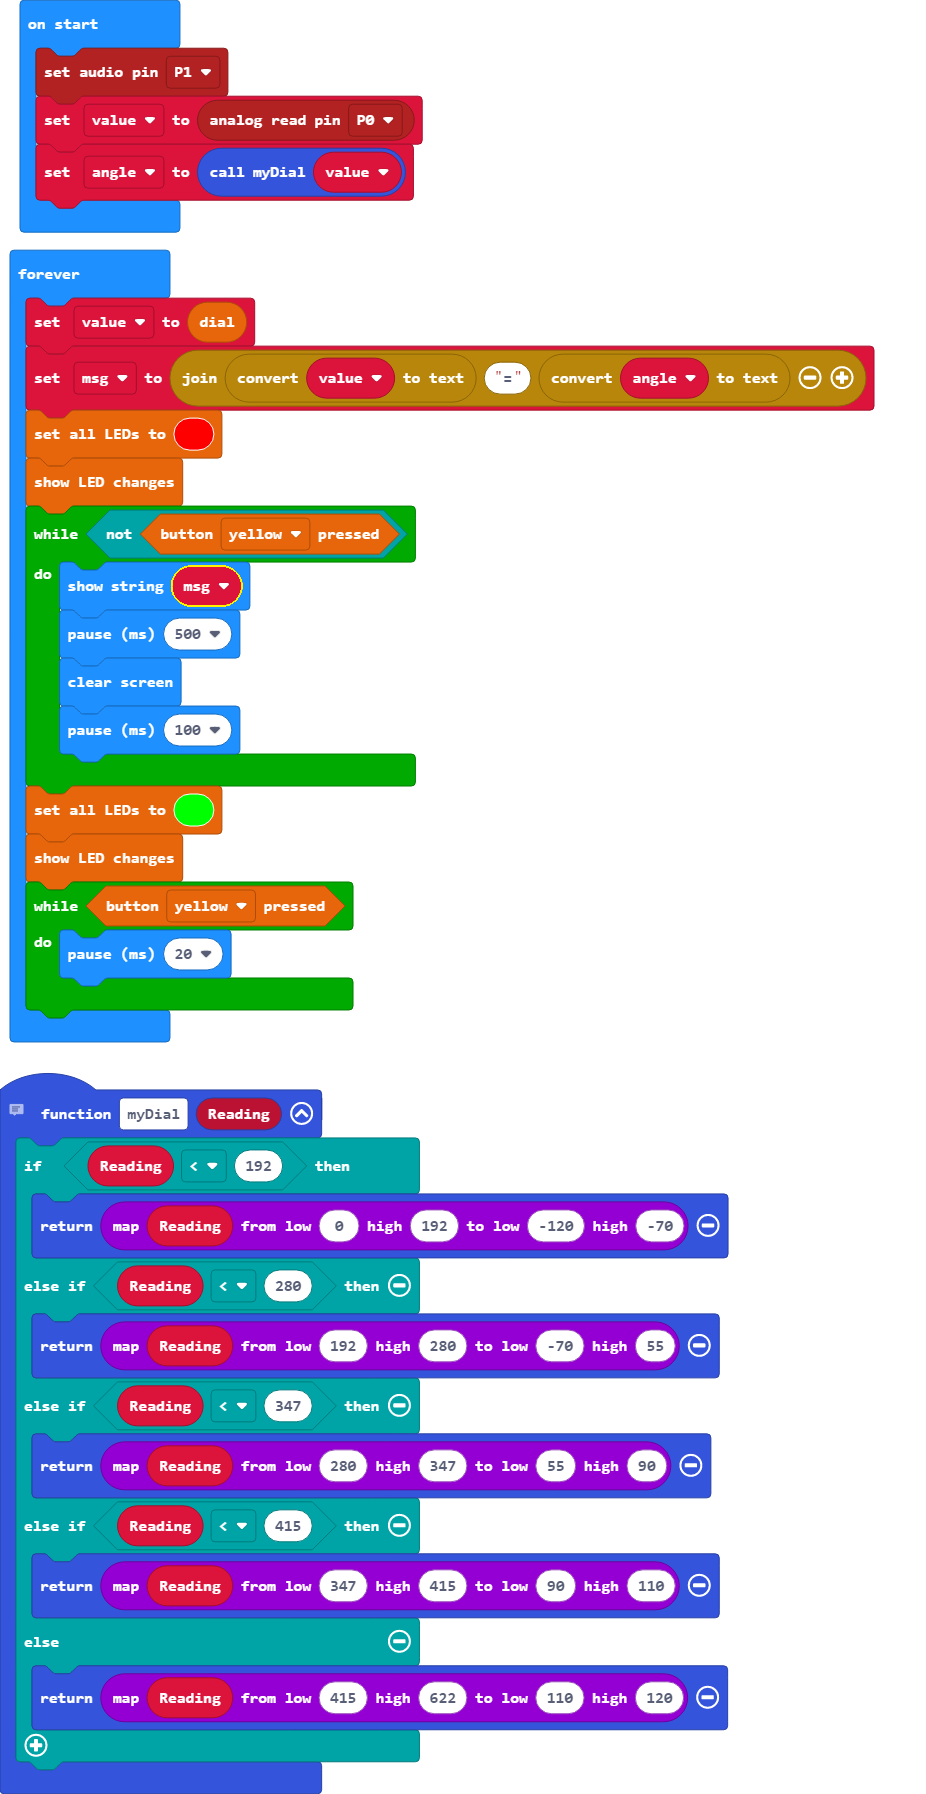
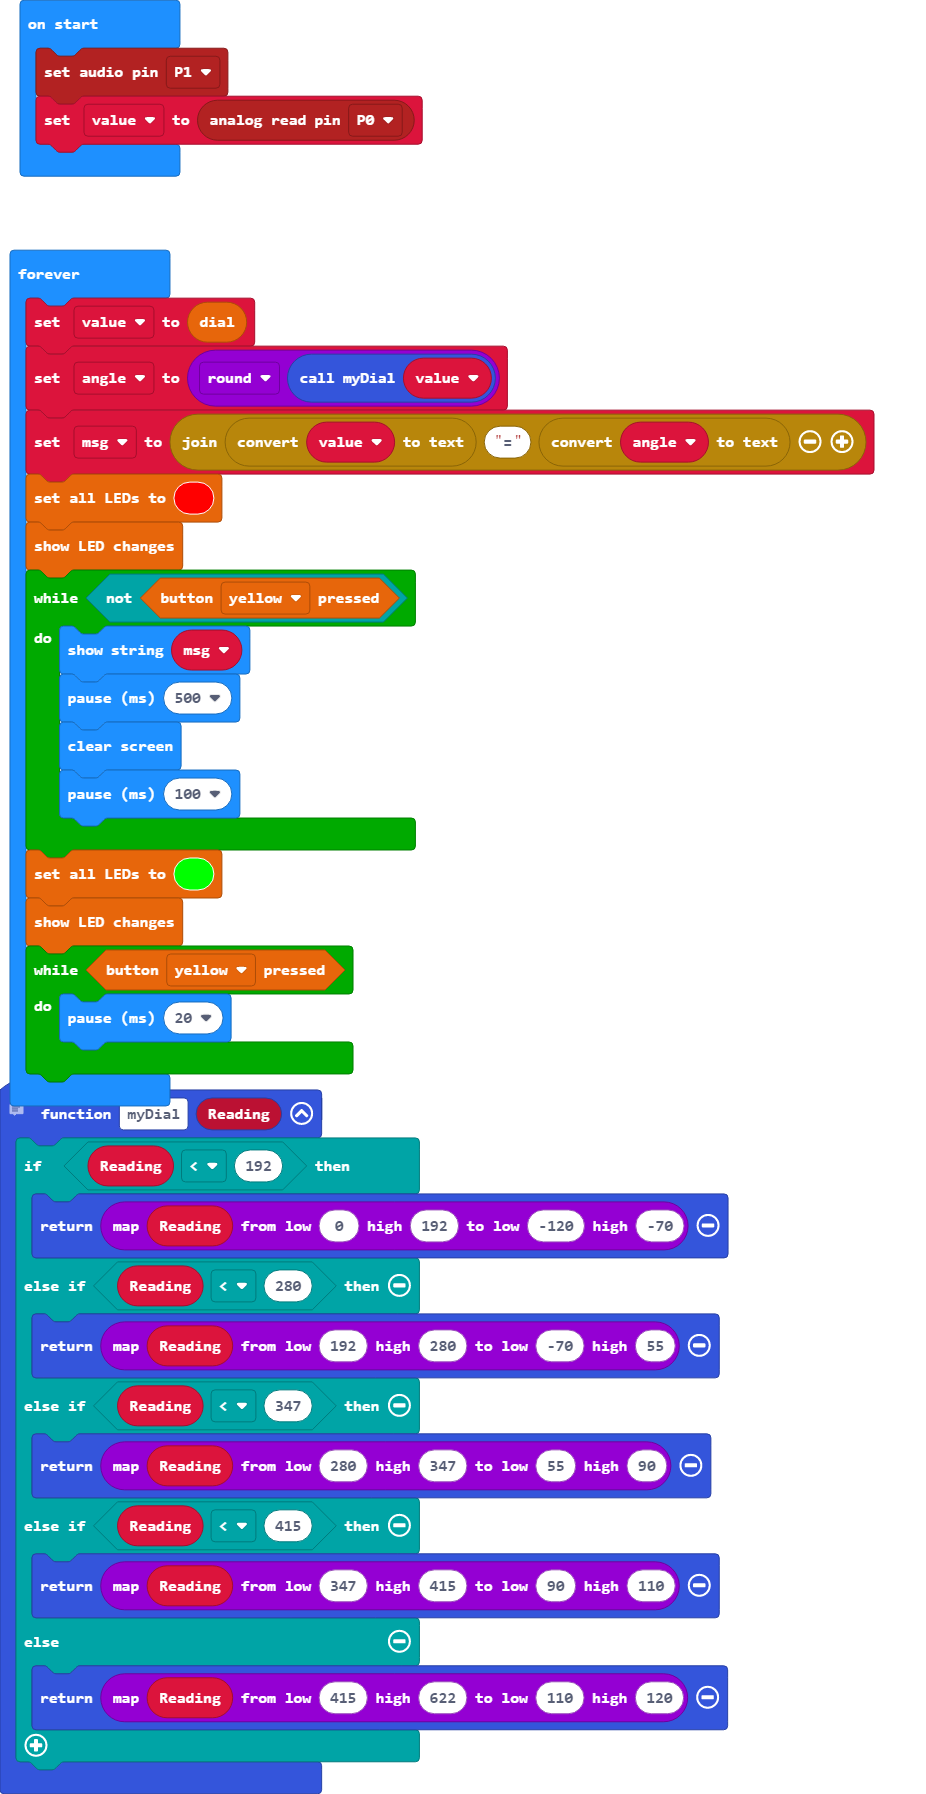
show raw and corrected readings from dial

Changed region(s): [[0.0, 0.1873, 0.9676, 0.6243], [0.0, 0.0624, 0.4536, 0.1561]]

diff --git a/main.ts b/main.ts
@@ -18,11 +18,12 @@ function myDial (Reading: number) {
     }
 }
 let msg = ""
+let angle = 0
 pins.setAudioPin(AnalogPin.P1)
 let value = pins.analogReadPin(AnalogPin.P0)
-let angle = myDial(value)
 basic.forever(function () {
     value = bitcommander.readDial()
+    angle = Math.round(myDial(value))
     msg = "" + convertToText(value) + "=" + convertToText(angle)
     bitcommander.setLedColor(0xFF0000)
     bitcommander.ledShow()
